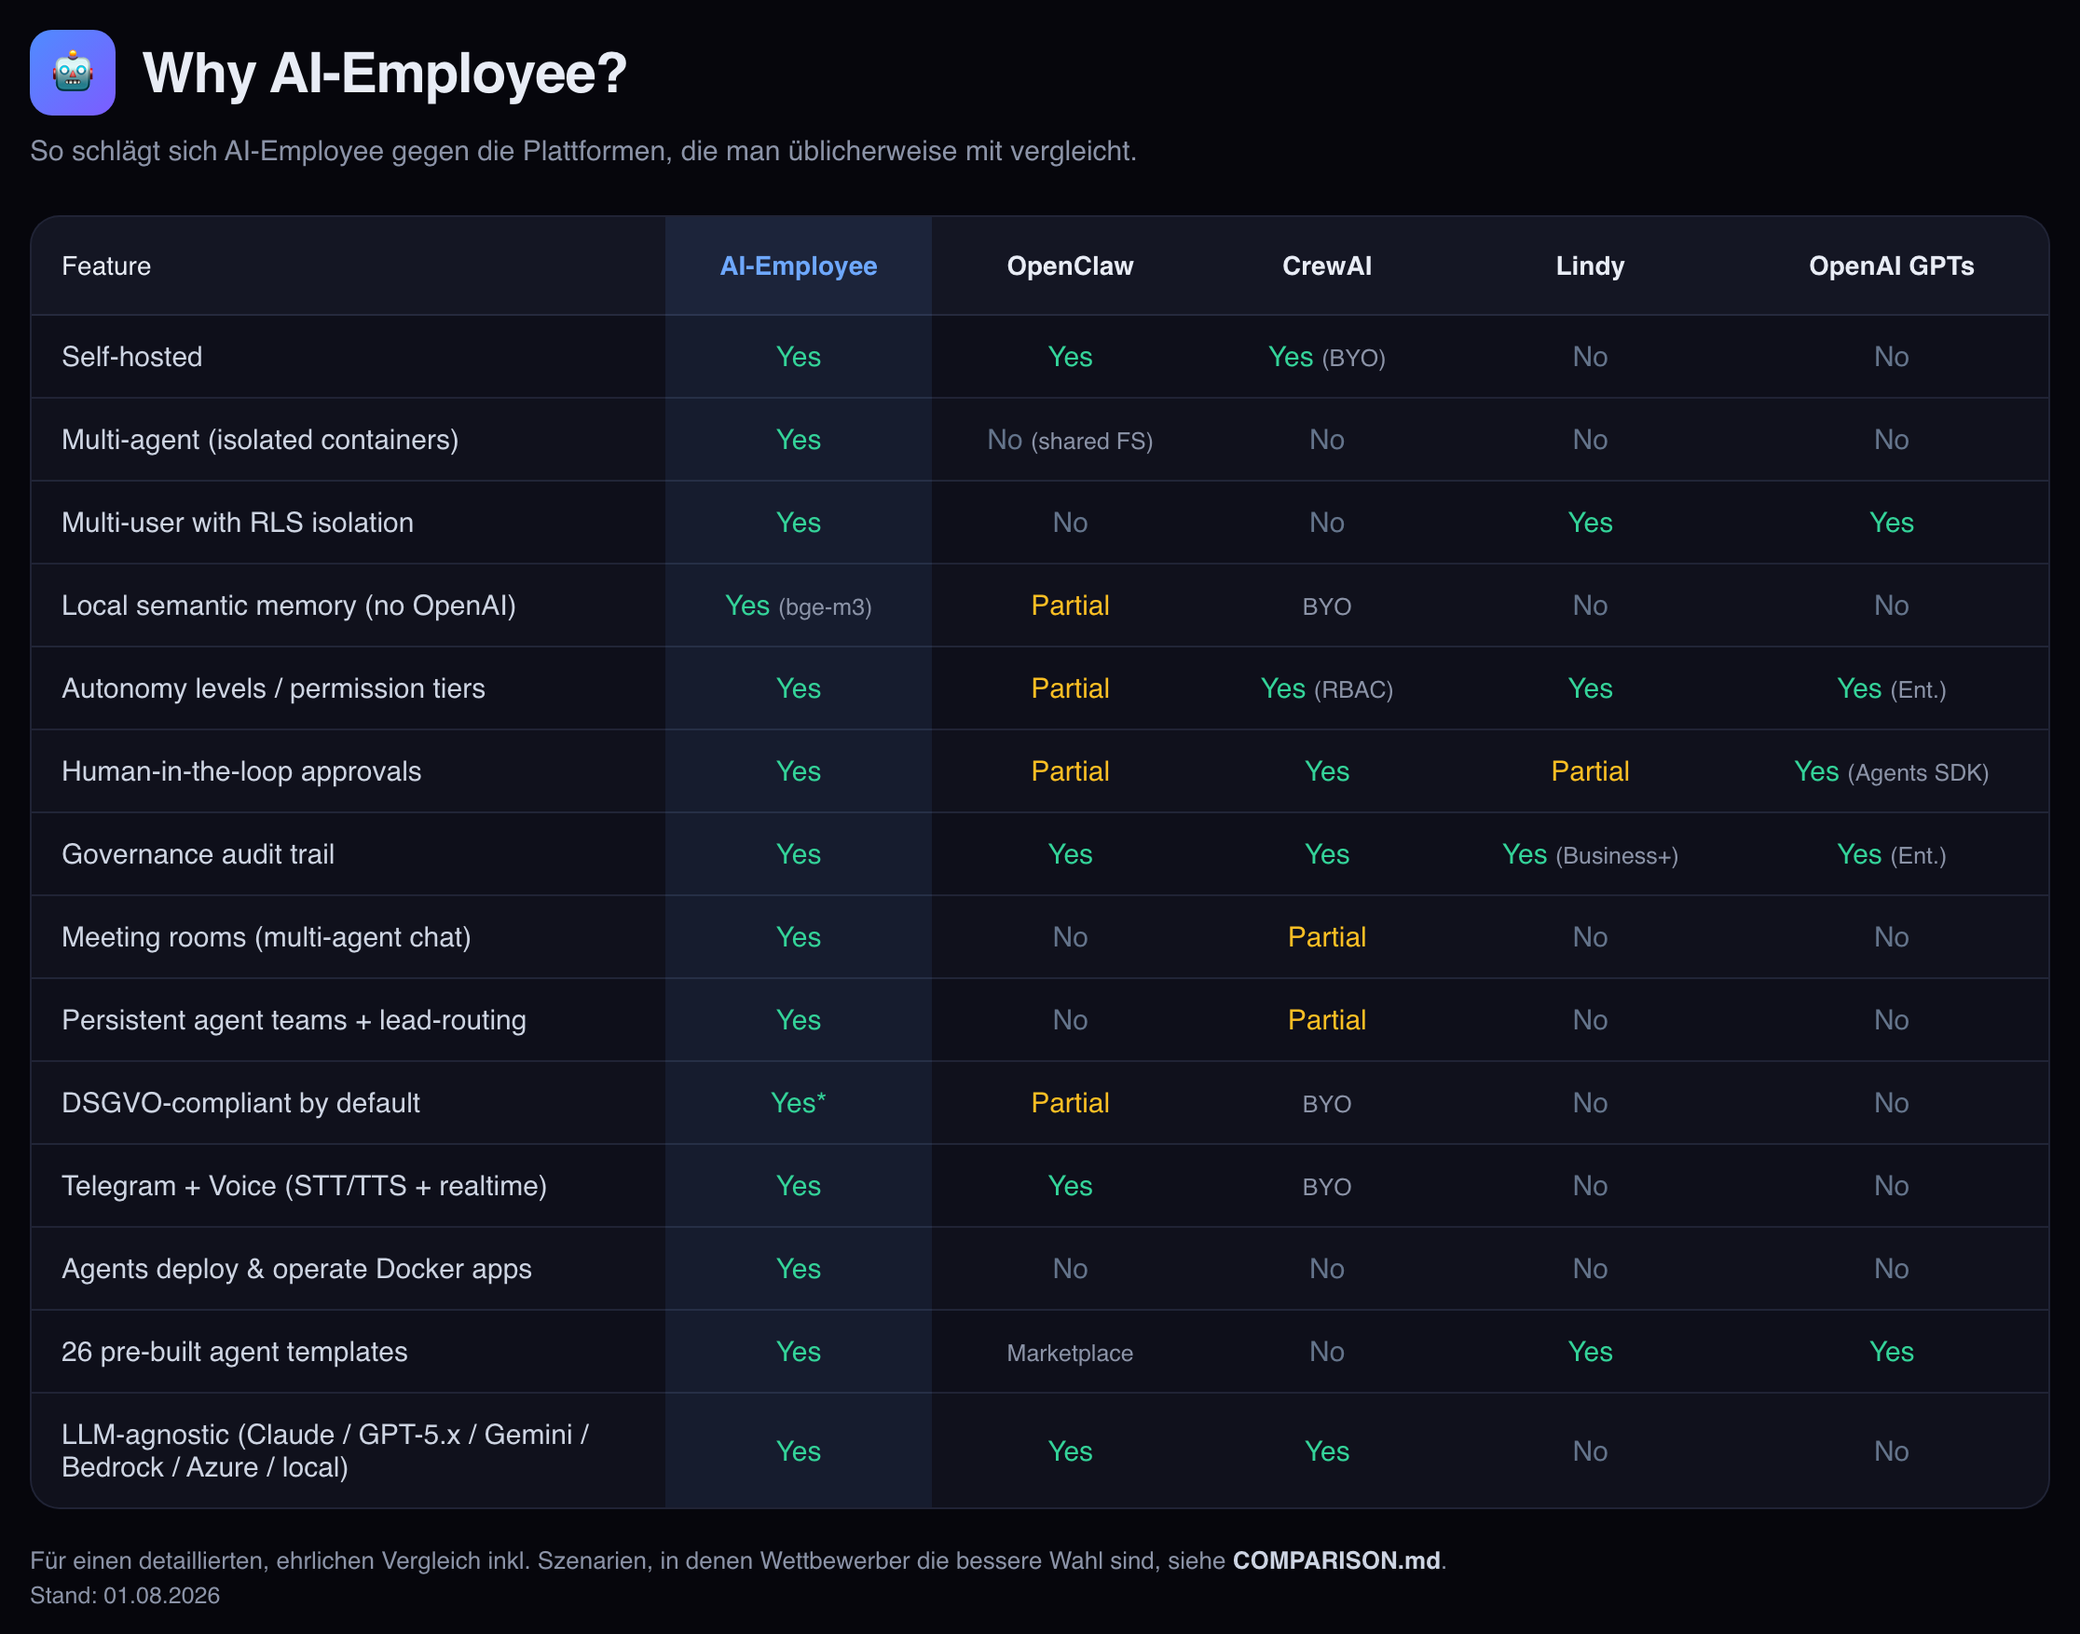
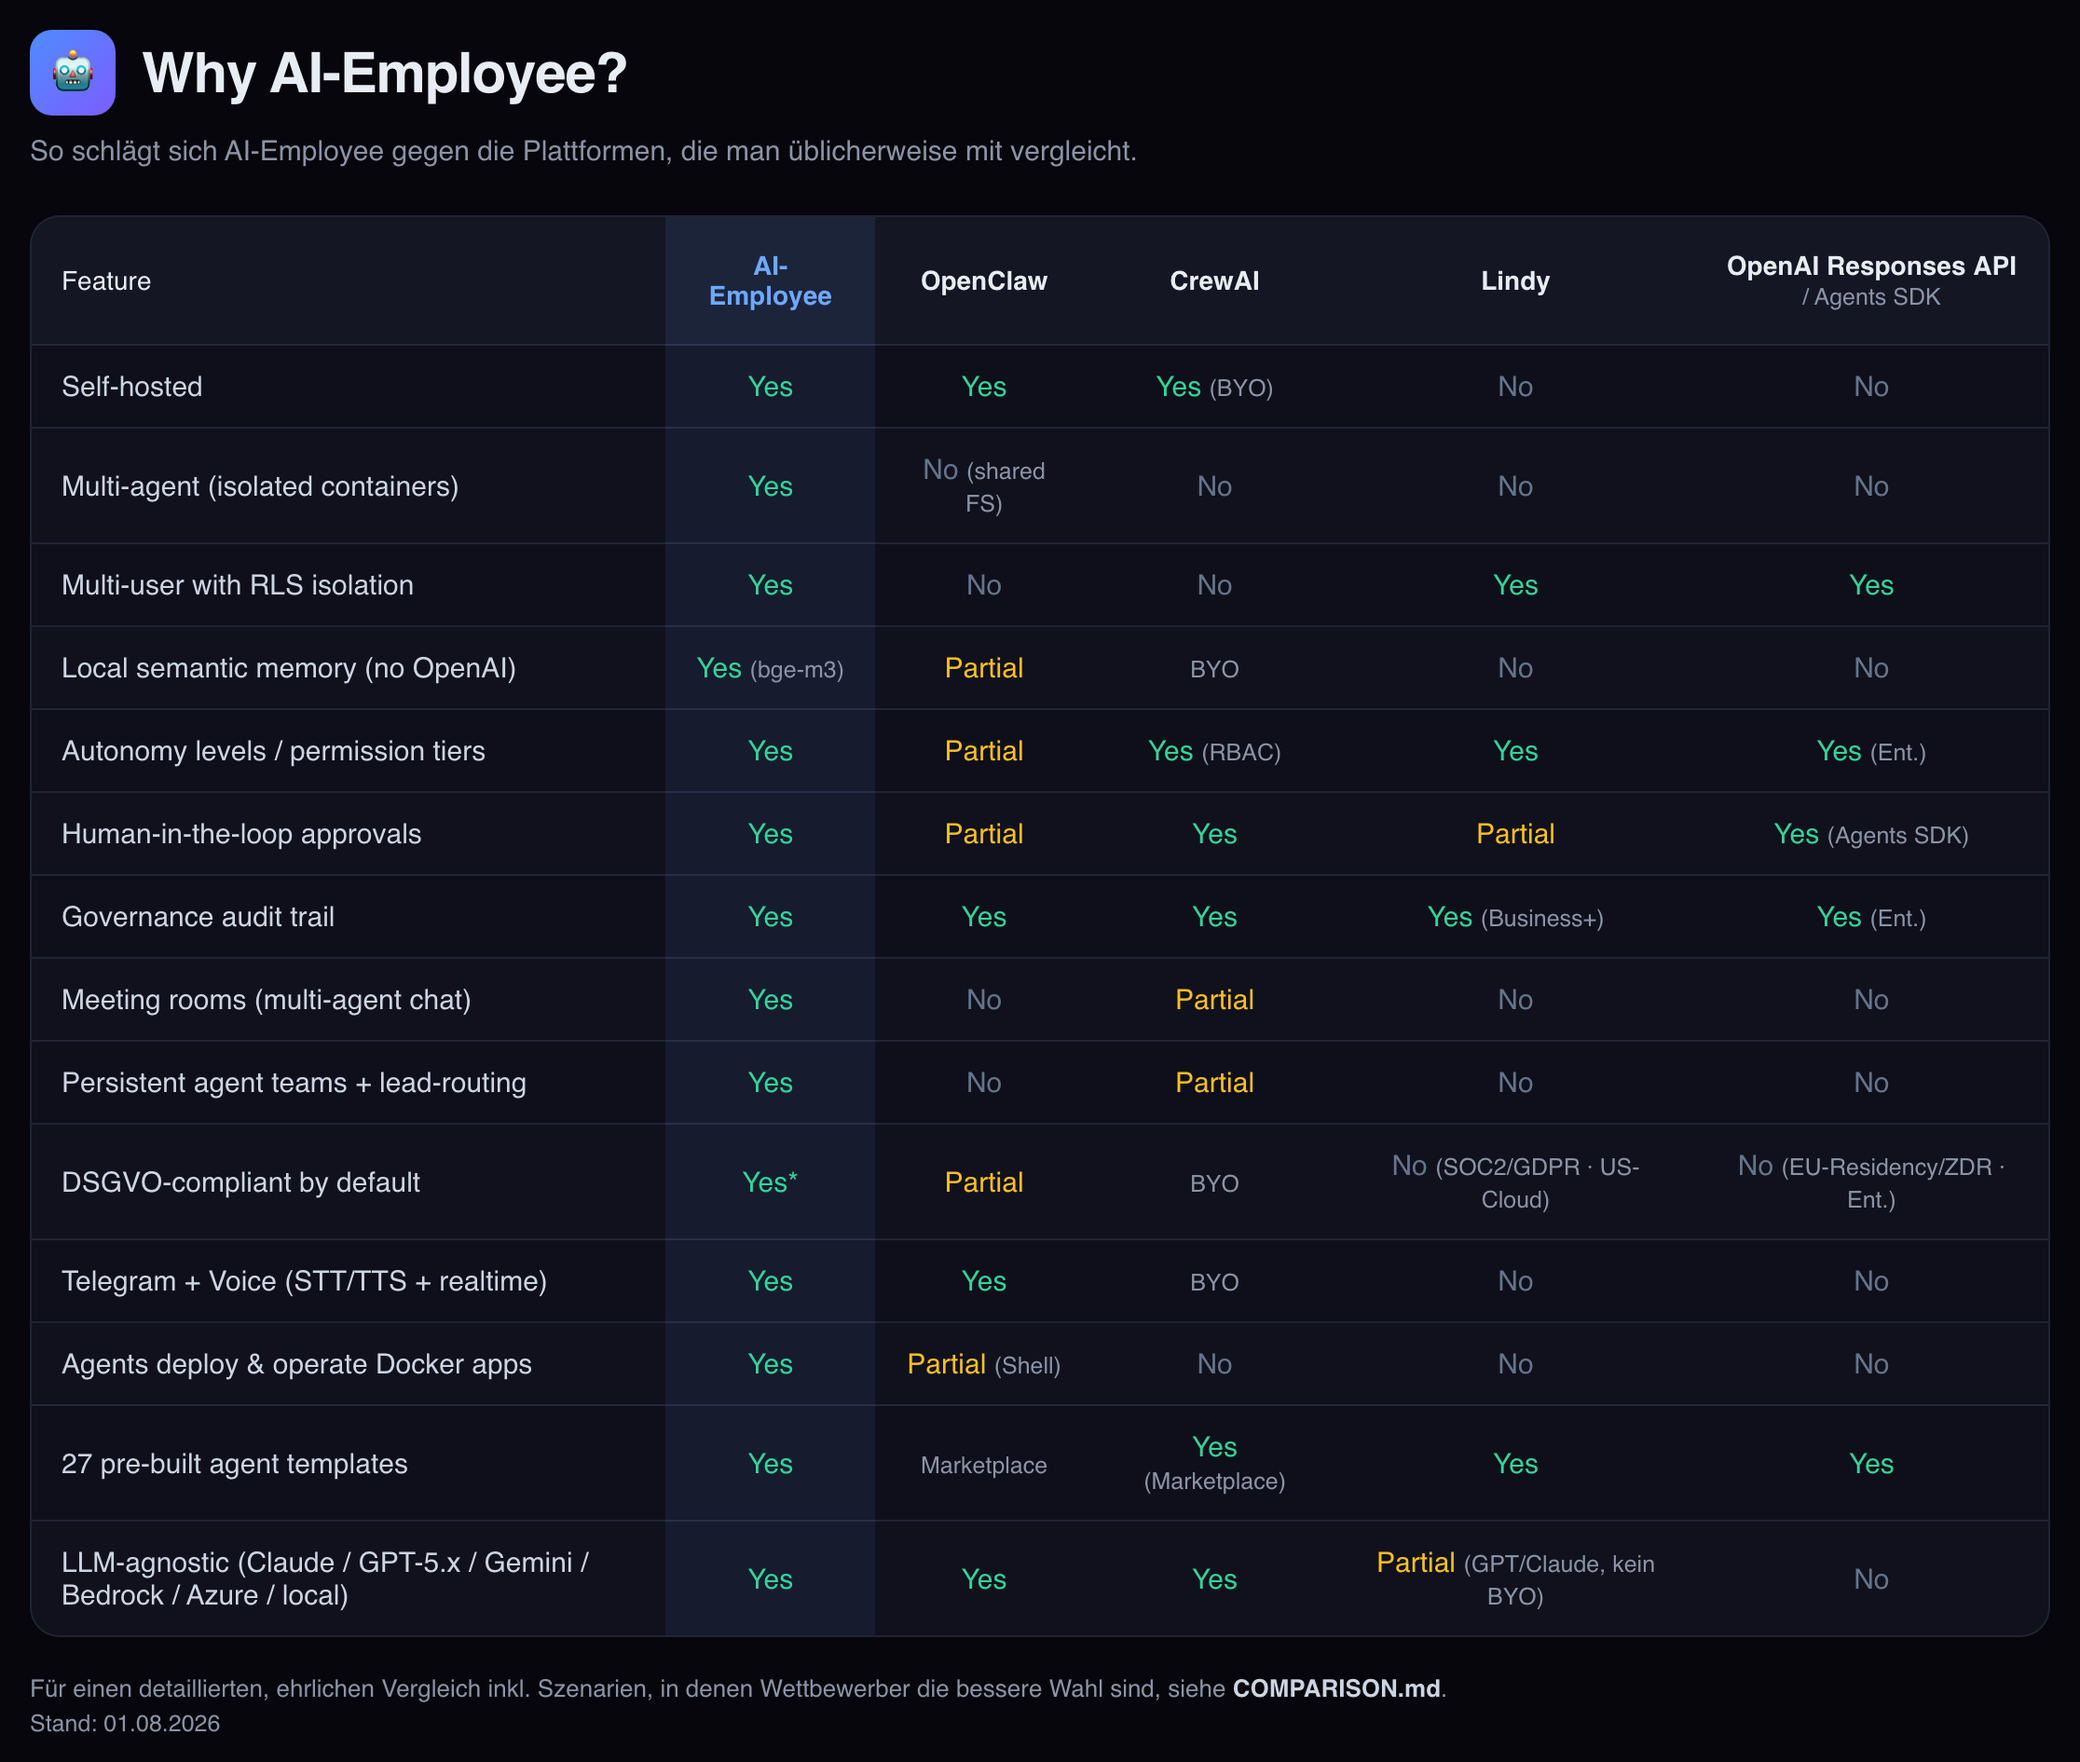
docs(readme): Comparison & Roadmap aktualisiert + faktengeprueft
- Comparison: OpenAI-Spalte -> 'Responses API / Agents SDK' (Assistants API
  wird 26.08.2026 abgeschaltet); CrewAI Templates No->Yes (Marketplace);
  Lindy LLM-agnostic No->Partial; OpenClaw Docker No->Partial (Shell);
  DSGVO-Nuancen fuer Lindy/OpenAI; Templates 26->27 (Code-Stand)
- Roadmap neu einsortiert (Shipped/In-Progress/Planned) nach Code-Faktencheck:
  Volume-Mounts/Webhooks/Skill-Analytics/Multi-tenant/OIDC-SSO sind live
- docs/assets/comparison.png aktualisiert, docs/assets/roadmap.png neu
- COMPARISON.md: OpenAI-Umbenennung + Template-Zahl angeglichen

diff --git a/README.md b/README.md
@@ -60,13 +60,13 @@ It is built for **KMU (small and medium-sized businesses) and regulated industri
 Here is how AI-Employee compares to the platforms people usually evaluate alongside it:
 
 <p align="center">
-  <img src="docs/assets/comparison.png" alt="Feature comparison: AI-Employee vs OpenClaw, CrewAI, Lindy, OpenAI GPTs" width="900">
+  <img src="docs/assets/comparison.png" alt="Feature comparison: AI-Employee vs OpenClaw, CrewAI, Lindy, OpenAI Agents SDK" width="900">
 </p>
 
 <details>
 <summary>Same comparison as a table</summary>
 
-| Feature | AI-Employee | OpenClaw | CrewAI | Lindy | OpenAI GPTs |
+| Feature | AI-Employee | OpenClaw | CrewAI | Lindy | OpenAI Responses API / Agents SDK |
 |---|:---:|:---:|:---:|:---:|:---:|
 | Self-hosted | Yes | Yes | Yes (BYO) | No | No |
 | Multi-agent (isolated containers) | Yes | No (shared FS) | No | No | No |
@@ -77,11 +77,11 @@ Here is how AI-Employee compares to the platforms people usually evaluate alongs
 | Governance audit trail | Yes | Yes | Yes | Yes (Business+) | Yes (Enterprise) |
 | Meeting rooms (multi-agent chat) | Yes | No | Partial | No | No |
 | Persistent agent teams + lead-routing | Yes | No | Partial | No | No |
-| DSGVO-compliant by default | Yes* | Partial | BYO | No | No |
+| DSGVO-compliant by default | Yes* | Partial | BYO | No (SOC2/GDPR, US cloud) | No (EU residency/ZDR on Enterprise) |
 | Telegram + Voice (STT/TTS + realtime voice) | Yes | Yes | BYO | No | No |
-| Agents deploy & operate Docker apps | Yes | No | No | No | No |
-| 26 pre-built agent templates | Yes | Marketplace | No | Yes | Yes |
-| LLM-agnostic (Claude / GPT-5.x via Codex / Gemini / Bedrock / Azure / local) | Yes | Yes | Yes | No | No |
+| Agents deploy & operate Docker apps | Yes | Partial (Docker via shell) | No | No | No |
+| 27 pre-built agent templates | Yes | Marketplace | Yes (Marketplace) | Yes | Yes |
+| LLM-agnostic (Claude / GPT-5.x via Codex / Gemini / Bedrock / Azure / local) | Yes | Yes | Yes | Partial (GPT/Claude, no BYO/local) | No |
 
 </details>
 
@@ -220,7 +220,7 @@ Database migrations run automatically on startup. Your data is persisted in name
 
 ## Agent Templates
 
-26 pre-configured roles, ready to launch with one click:
+27 pre-configured roles, ready to launch with one click:
 
 | # | Template | Description |
 |---|---|---|
@@ -250,6 +250,7 @@ Database migrations run automatically on startup. Your data is persisted in name
 | 24 | **Personal Assistant** | Calendar, email triage, reminders |
 | 25 | **Executive Assistant** | Briefings, travel, meeting prep, minutes |
 | 26 | **OS Agent (Brain)** | Orchestrator — decomposes goals, delegates to specialist agents, monitors, learns |
+| 27 | **Meeting Agent** | Records/transcribes meetings, writes minutes, tracks action items, schedules follow-ups |
 
 Each template ships with a role prompt, recommended skills, default approval rules, and example tasks.
 
@@ -270,22 +271,33 @@ Real scenarios AI-Employee is already used for:
 
 ## Roadmap
 
-What's actively in development or planned next:
+What we shipped recently, what's in progress, and what's planned next:
 
-### In Progress
-- **Enterprise Volume Mounts** — Mount shared company file shares (NFS, SMB) directly into agent workspaces for read/write access to existing infrastructure.
+<p align="center">
+  <img src="docs/assets/roadmap.png" alt="Roadmap: recently shipped, in progress, and planned features" width="960">
+</p>
 
-### Planned
-- **Autonomy Level → Sudo Package coupling** — Setting an agent to L1 automatically applies minimal OS permissions; L4 grants full root. One setting controls both prompt whitelist and container permissions.
-- **SSO / SAML** — Enterprise single sign-on via SAML 2.0 and OIDC. Map identity provider groups to AI-Employee roles.
-- **Multi-tenant agent assignment** — Admins assign specific agents to specific users or teams. Fine-grained access control beyond the current RLS model.
-- **Mobile PWA** — Installable progressive web app for iOS/Android with push notifications for approval requests and task completions.
-- **Webhook triggers** — Trigger agent tasks from external events (GitHub PR, Jira ticket, form submission) via configurable inbound webhooks.
-- **Skill ratings analytics** — Aggregate skill performance across all agents: which skills are used most, highest/lowest rated, most often replaced.
+<details>
+<summary>Roadmap as text</summary>
 
-### Community Requested
-- Agent-to-agent file handoff notifications
-- DATEV / Lexware export improvements for tax workflows
+**Recently shipped** (was on the roadmap, now live)
+- **Enterprise Volume Mounts** ([#134](https://github.com/greeves89/AI-Employee/issues/134)) — mount company file shares (NFS/SMB via host bind) into agent workspaces, with per-user mount access control.
+- **Inbound webhook triggers** ([#105](https://github.com/greeves89/AI-Employee/issues/105)) — trigger agent tasks from external events (GitHub PR, forms) via configurable routing rules.
+- **Skill ratings analytics** ([#154](https://github.com/greeves89/AI-Employee/issues/154)) — usage count, average rating, time-saved and ROI per skill in the analytics dashboard.
+- **Multi-tenant agent assignment** ([#122](https://github.com/greeves89/AI-Employee/issues/122)) — assign agents to specific users/teams via `agent_access` + teams + custom-role permission packages.
+- **OIDC SSO (Google / Microsoft)** ([#133](https://github.com/greeves89/AI-Employee/issues/133)) — enterprise single sign-on via OpenID Connect.
+
+**In progress**
+- **Second Brain: Weekly Synthesis & Capture** ([#384](https://github.com/greeves89/AI-Employee/issues/384) / [#385](https://github.com/greeves89/AI-Employee/issues/385)) — semantic auto-linking of memory & knowledge is live; weekly synthesis and the capture pipeline are next.
+- **Autonomy Level → container-sudo coupling** — an autonomy level already drives the prompt whitelist and approval rules; next it will also derive the container sudo package automatically.
+- **Agent-to-agent file handoff** — handoff messaging exists; files currently pass through the shared volume, first-class file handoff is in progress.
+
+**Planned**
+- **SAML 2.0 + IdP group mapping** — SAML 2.0 SSO alongside the existing OIDC, with automatic mapping of identity-provider groups to AI-Employee roles.
+- **Mobile PWA + Web Push** — installable PWA for iOS/Android with web push for approvals and task completions (native iOS push already exists).
+- **DATEV / Lexware export** — export improvements for DACH tax workflows.
+
+</details>
 
 ---
 

diff --git a/COMPARISON.md b/COMPARISON.md
@@ -23,7 +23,7 @@ If you are evaluating AI agent platforms for:
 | **OpenClaw** | Messaging-first personal AI | Peter Steinberger | 60,000+ |
 | **CrewAI** | Python multi-agent framework | João Moura | 25,000+ |
 | **Lindy.ai** | Cloud no-code AI builder | Flo Crivello | Closed-source |
-| **OpenAI GPTs / Assistants API** | Cloud AI assistants | OpenAI | Closed-source |
+| **OpenAI Responses API / Agents SDK** | Cloud AI assistants (formerly GPTs / Assistants API — Assistants API shuts down 2026-08-26) | OpenAI | Closed-source |
 | **LangGraph** | Graph-based agent framework | LangChain Inc. | 9,000+ |
 | **AutoGen** | Multi-agent research framework | Microsoft Research | 35,000+ |
 | **n8n** | Workflow automation | n8n.io | 65,000+ |
@@ -109,7 +109,7 @@ If you are evaluating AI agent platforms for:
 
 | Feature | AI-Employee | OpenClaw | CrewAI | Lindy | OpenAI | LangGraph | AutoGen | n8n |
 |---|:---:|:---:|:---:|:---:|:---:|:---:|:---:|:---:|
-| Pre-built agent templates | **26** | Marketplace | No | ~50 | GPT Store | No | No | Templates |
+| Pre-built agent templates | **27** | Marketplace | Marketplace | ~50 | GPT Store | No | No | Templates |
 | Custom skills system | Yes | Plugins | Tools | No | Actions | Tools | Tools | Nodes |
 | Meeting rooms (multi-agent chat) | **Yes** | No | Partial | No | No | Partial | Yes | No |
 | Agent deploys Docker apps | **Yes** | No | No | No | No | No | No | No |
@@ -195,24 +195,25 @@ If you are evaluating AI agent platforms for:
 
 **Choose AI-Employee if:** your data cannot leave your infrastructure or you need DSGVO compliance.
 
-### OpenAI GPTs / Assistants API
+### OpenAI Responses API / Agents SDK
 
-**What it is:** OpenAI's first-party assistant platform. Tight integration with GPT-4o, DALL-E, Code Interpreter, and the GPT Store.
+**What it is:** OpenAI's first-party agent platform. Tight integration with the latest OpenAI models, Code Interpreter, and the GPT Store. Note: the older **Assistants API is deprecated and shuts down 2026-08-26** — OpenAI directs new work to the **Responses API** (GA March 2025) and the **Agents SDK** (which adds human-in-the-loop `needs_approval` gates).
 
 **Pros:**
 - Access to the best-in-class OpenAI models
 - Code Interpreter and built-in retrieval
 - GPT Store for distribution
 - Official, reliable, well-documented
+- Human-in-the-loop approvals via the Agents SDK; EU data residency + ZDR on Enterprise
 
 **Cons:**
 - Cloud only
 - Tied to OpenAI as a vendor
 - No self-host, no true data sovereignty
 - Limited multi-agent primitives
-- No governance/approval framework
+- No governance/approval framework beyond the Agents SDK primitives
 
-**Choose OpenAI GPTs if:** you want the best OpenAI model experience and are happy to live fully inside OpenAI's ecosystem.
+**Choose OpenAI's Agents SDK if:** you want the best OpenAI model experience and are happy to live fully inside OpenAI's ecosystem.
 
 **Choose AI-Employee if:** you need LLM-agnostic, self-hosted, multi-agent, multi-user, or DSGVO compliance.
 
@@ -296,7 +297,7 @@ We'd rather you pick the right tool than the wrong one:
 - **You are a solo hobbyist who wants the best iMessage/WhatsApp bot.** → Use **OpenClaw**.
 - **You want a pure Python framework to embed in your own SaaS.** → Use **CrewAI** or **LangGraph**.
 - **You want a no-code cloud tool with 3000 integrations and don't care about data residency.** → Use **Lindy**.
-- **You are fully committed to OpenAI and want the GPT Store.** → Use **OpenAI GPTs**.
+- **You are fully committed to OpenAI and want the GPT Store.** → Use **OpenAI's Responses API / Agents SDK**.
 - **You are doing academic research on multi-agent conversation patterns.** → Use **AutoGen**.
 - **You need workflow automation with AI as one step among many.** → Use **n8n**.
 
